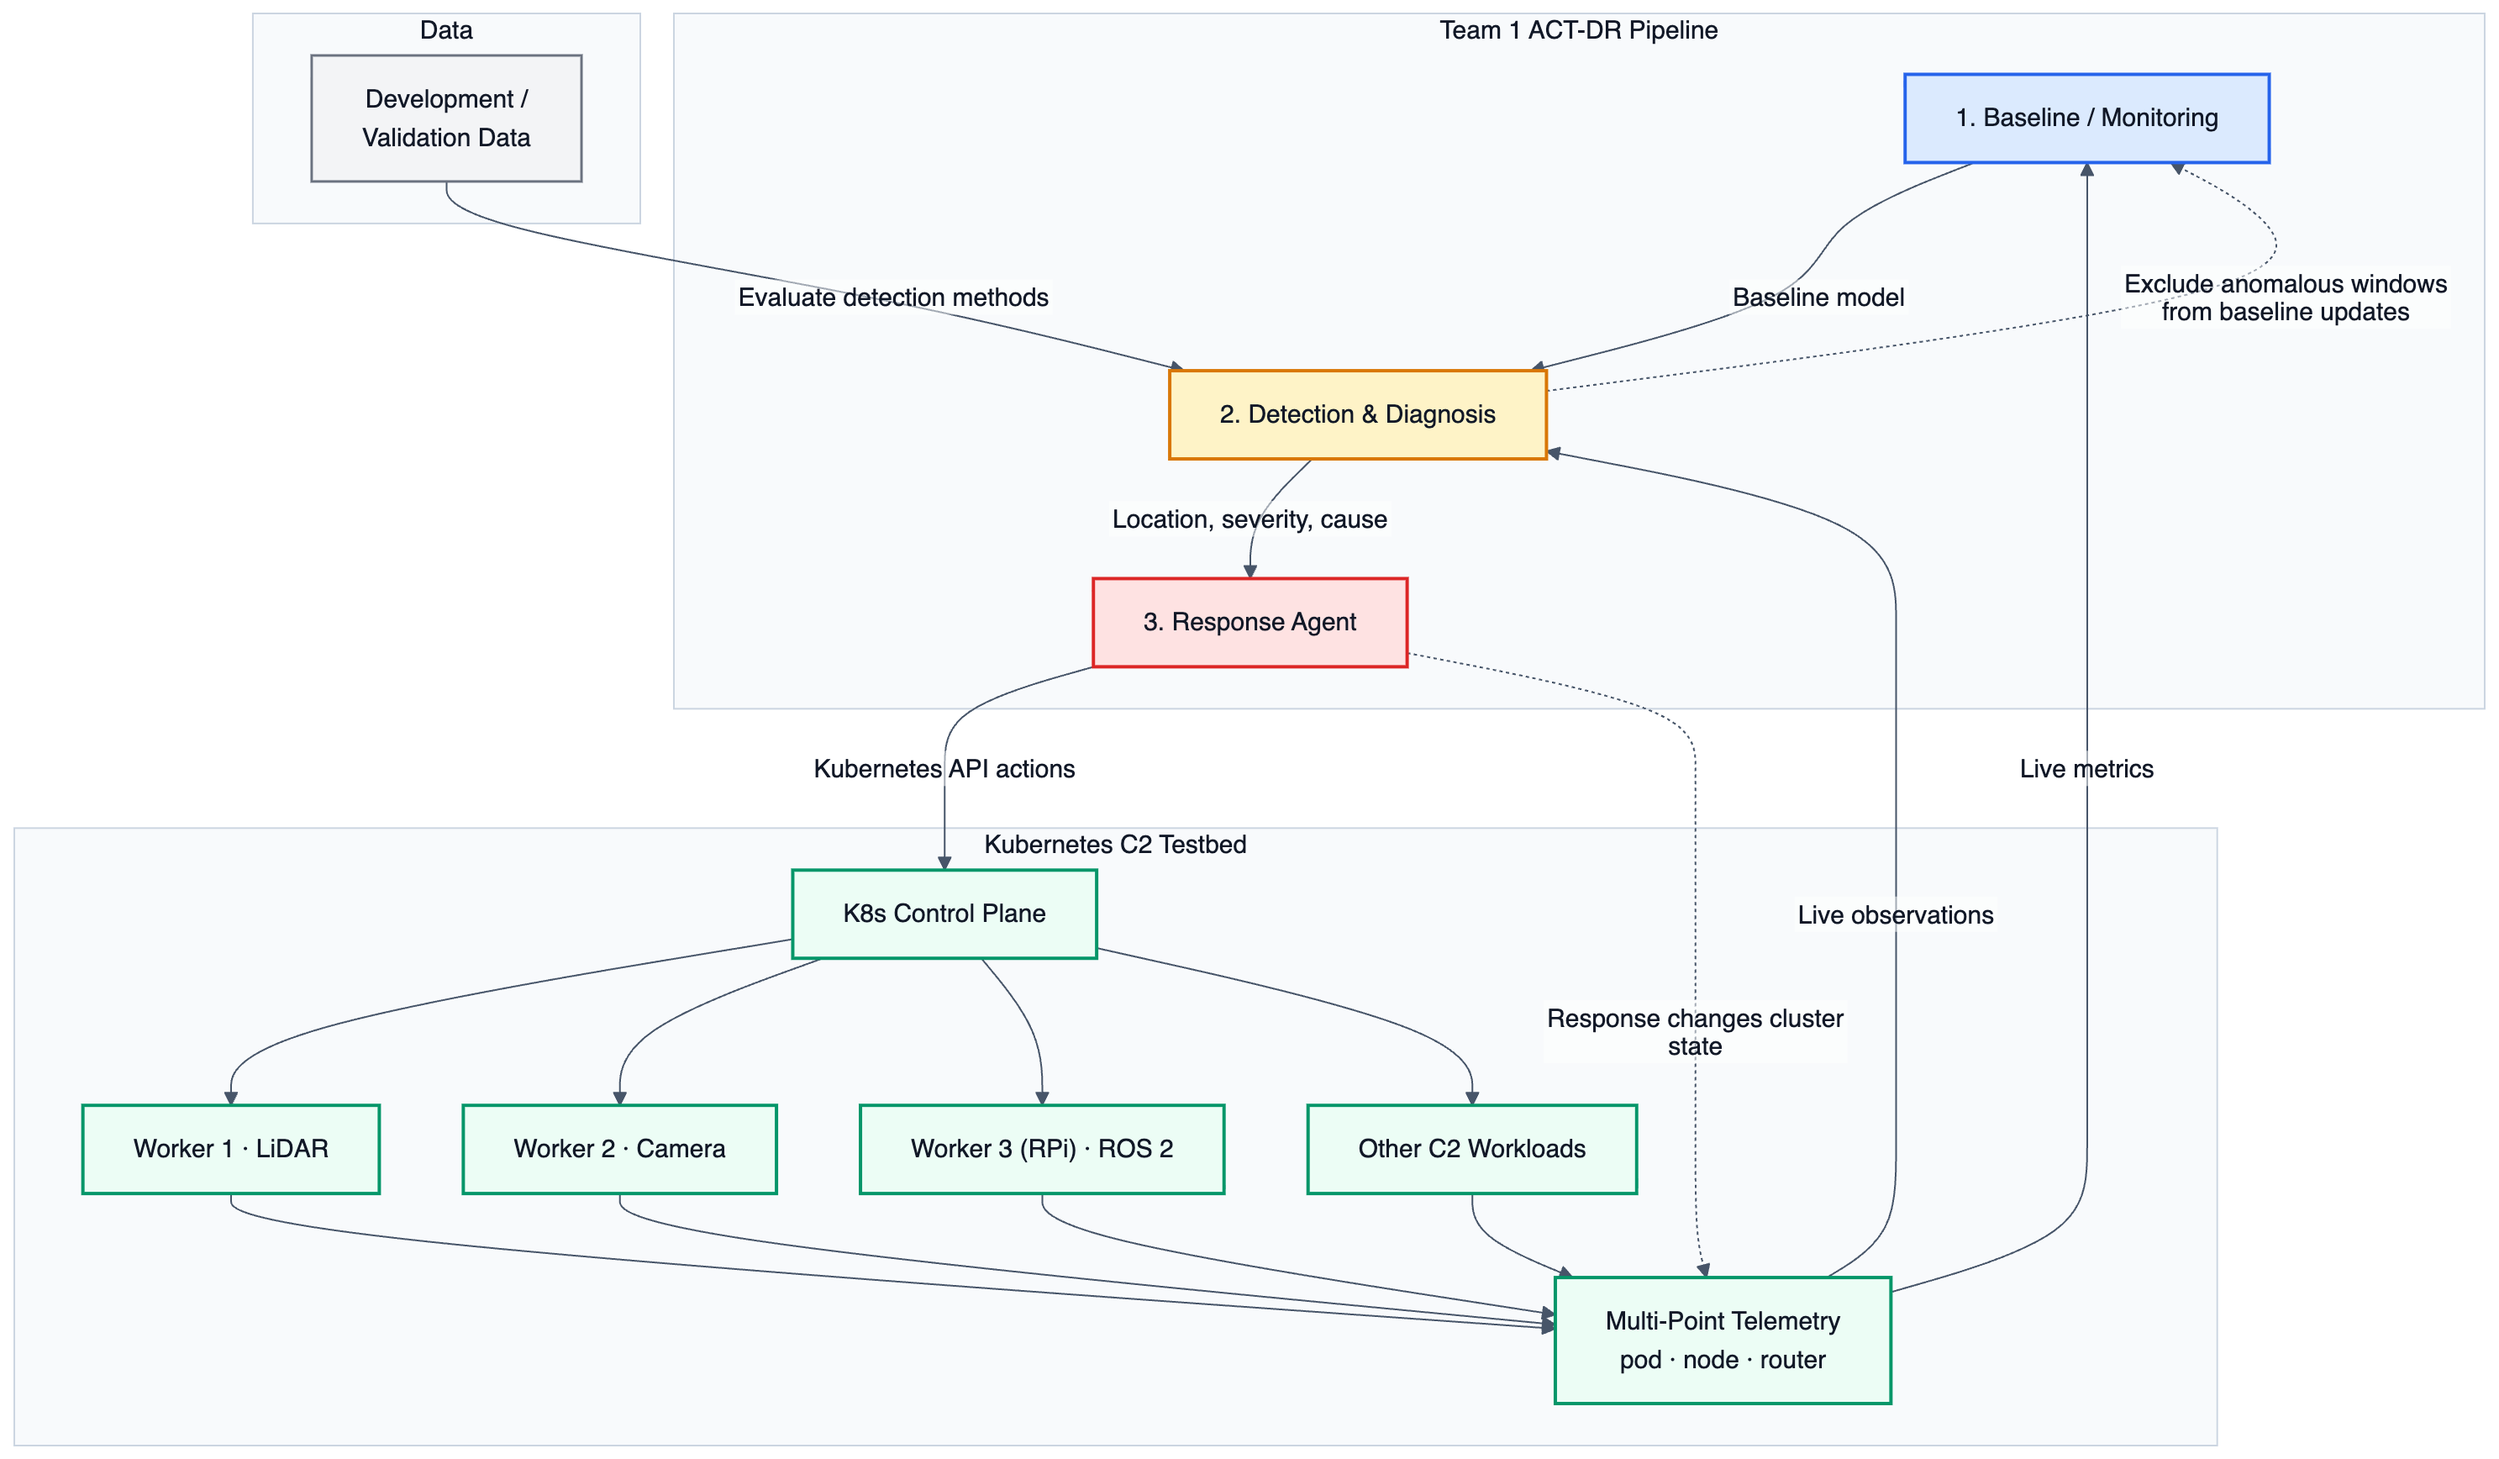
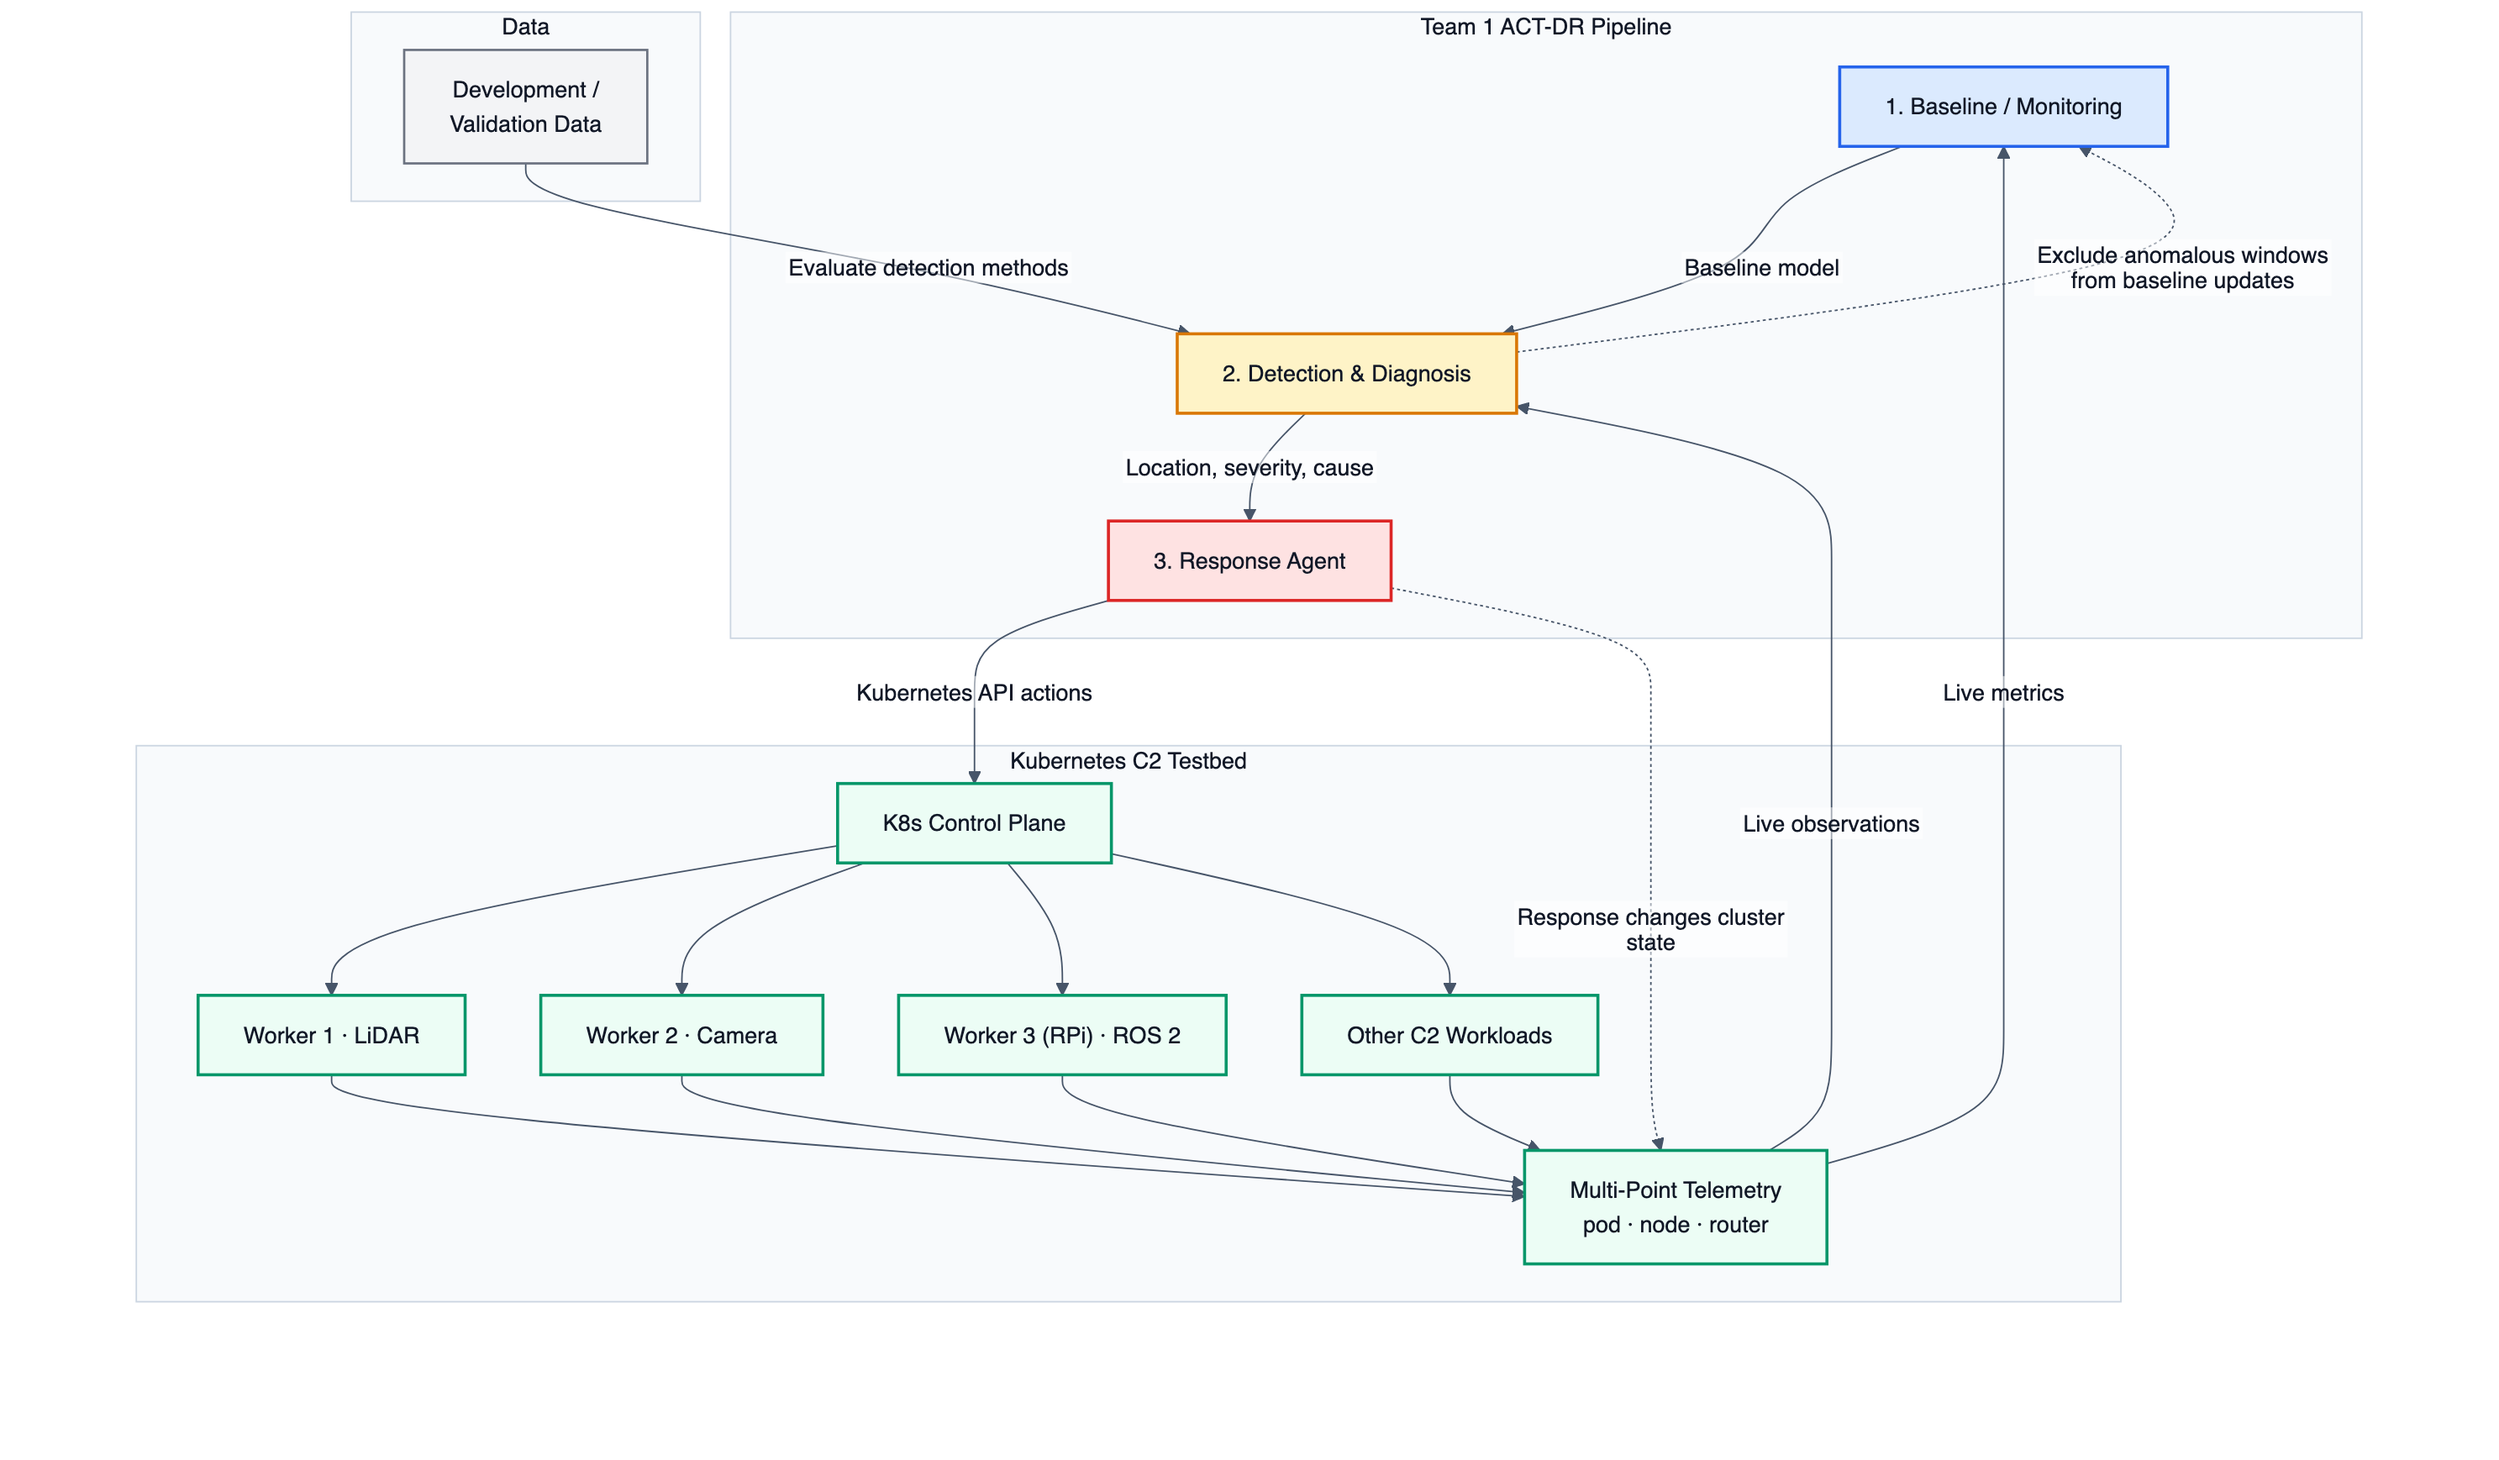
bold text in architecture diagram for document readability

diff --git a/docs/act-dr-architecture.md b/docs/act-dr-architecture.md
@@ -1,7 +1,7 @@
 ![Team 1 ACT-DR architecture](act-dr-architecture.png)
 
 ```mermaid
-%%{init: {"theme": "base", "flowchart": {"htmlLabels": false}, "themeVariables": {"fontFamily": "Helvetica, Arial", "fontSize": "15px", "primaryTextColor": "#111827", "secondaryTextColor": "#111827", "tertiaryTextColor": "#111827", "lineColor": "#475569", "edgeLabelBackground": "#ffffff", "clusterBkg": "#f8fafc", "clusterBorder": "#cbd5e1"}}}%%
+%%{init: {"theme": "base", "flowchart": {"htmlLabels": false}, "themeCSS": "#g0 text, #g0 tspan, #g0 .nodeLabel, #g0 .edgeLabel, #g0 .cluster-label, #g0 span, #g0 p { font-weight: 700 !important; }", "themeVariables": {"fontFamily": "Helvetica, Arial", "fontSize": "15px", "primaryTextColor": "#111827", "secondaryTextColor": "#111827", "tertiaryTextColor": "#111827", "lineColor": "#475569", "edgeLabelBackground": "#ffffff", "clusterBkg": "#f8fafc", "clusterBorder": "#cbd5e1"}}}%%
 flowchart TB
 
     subgraph PIPE["Team 1 ACT-DR Pipeline"]
